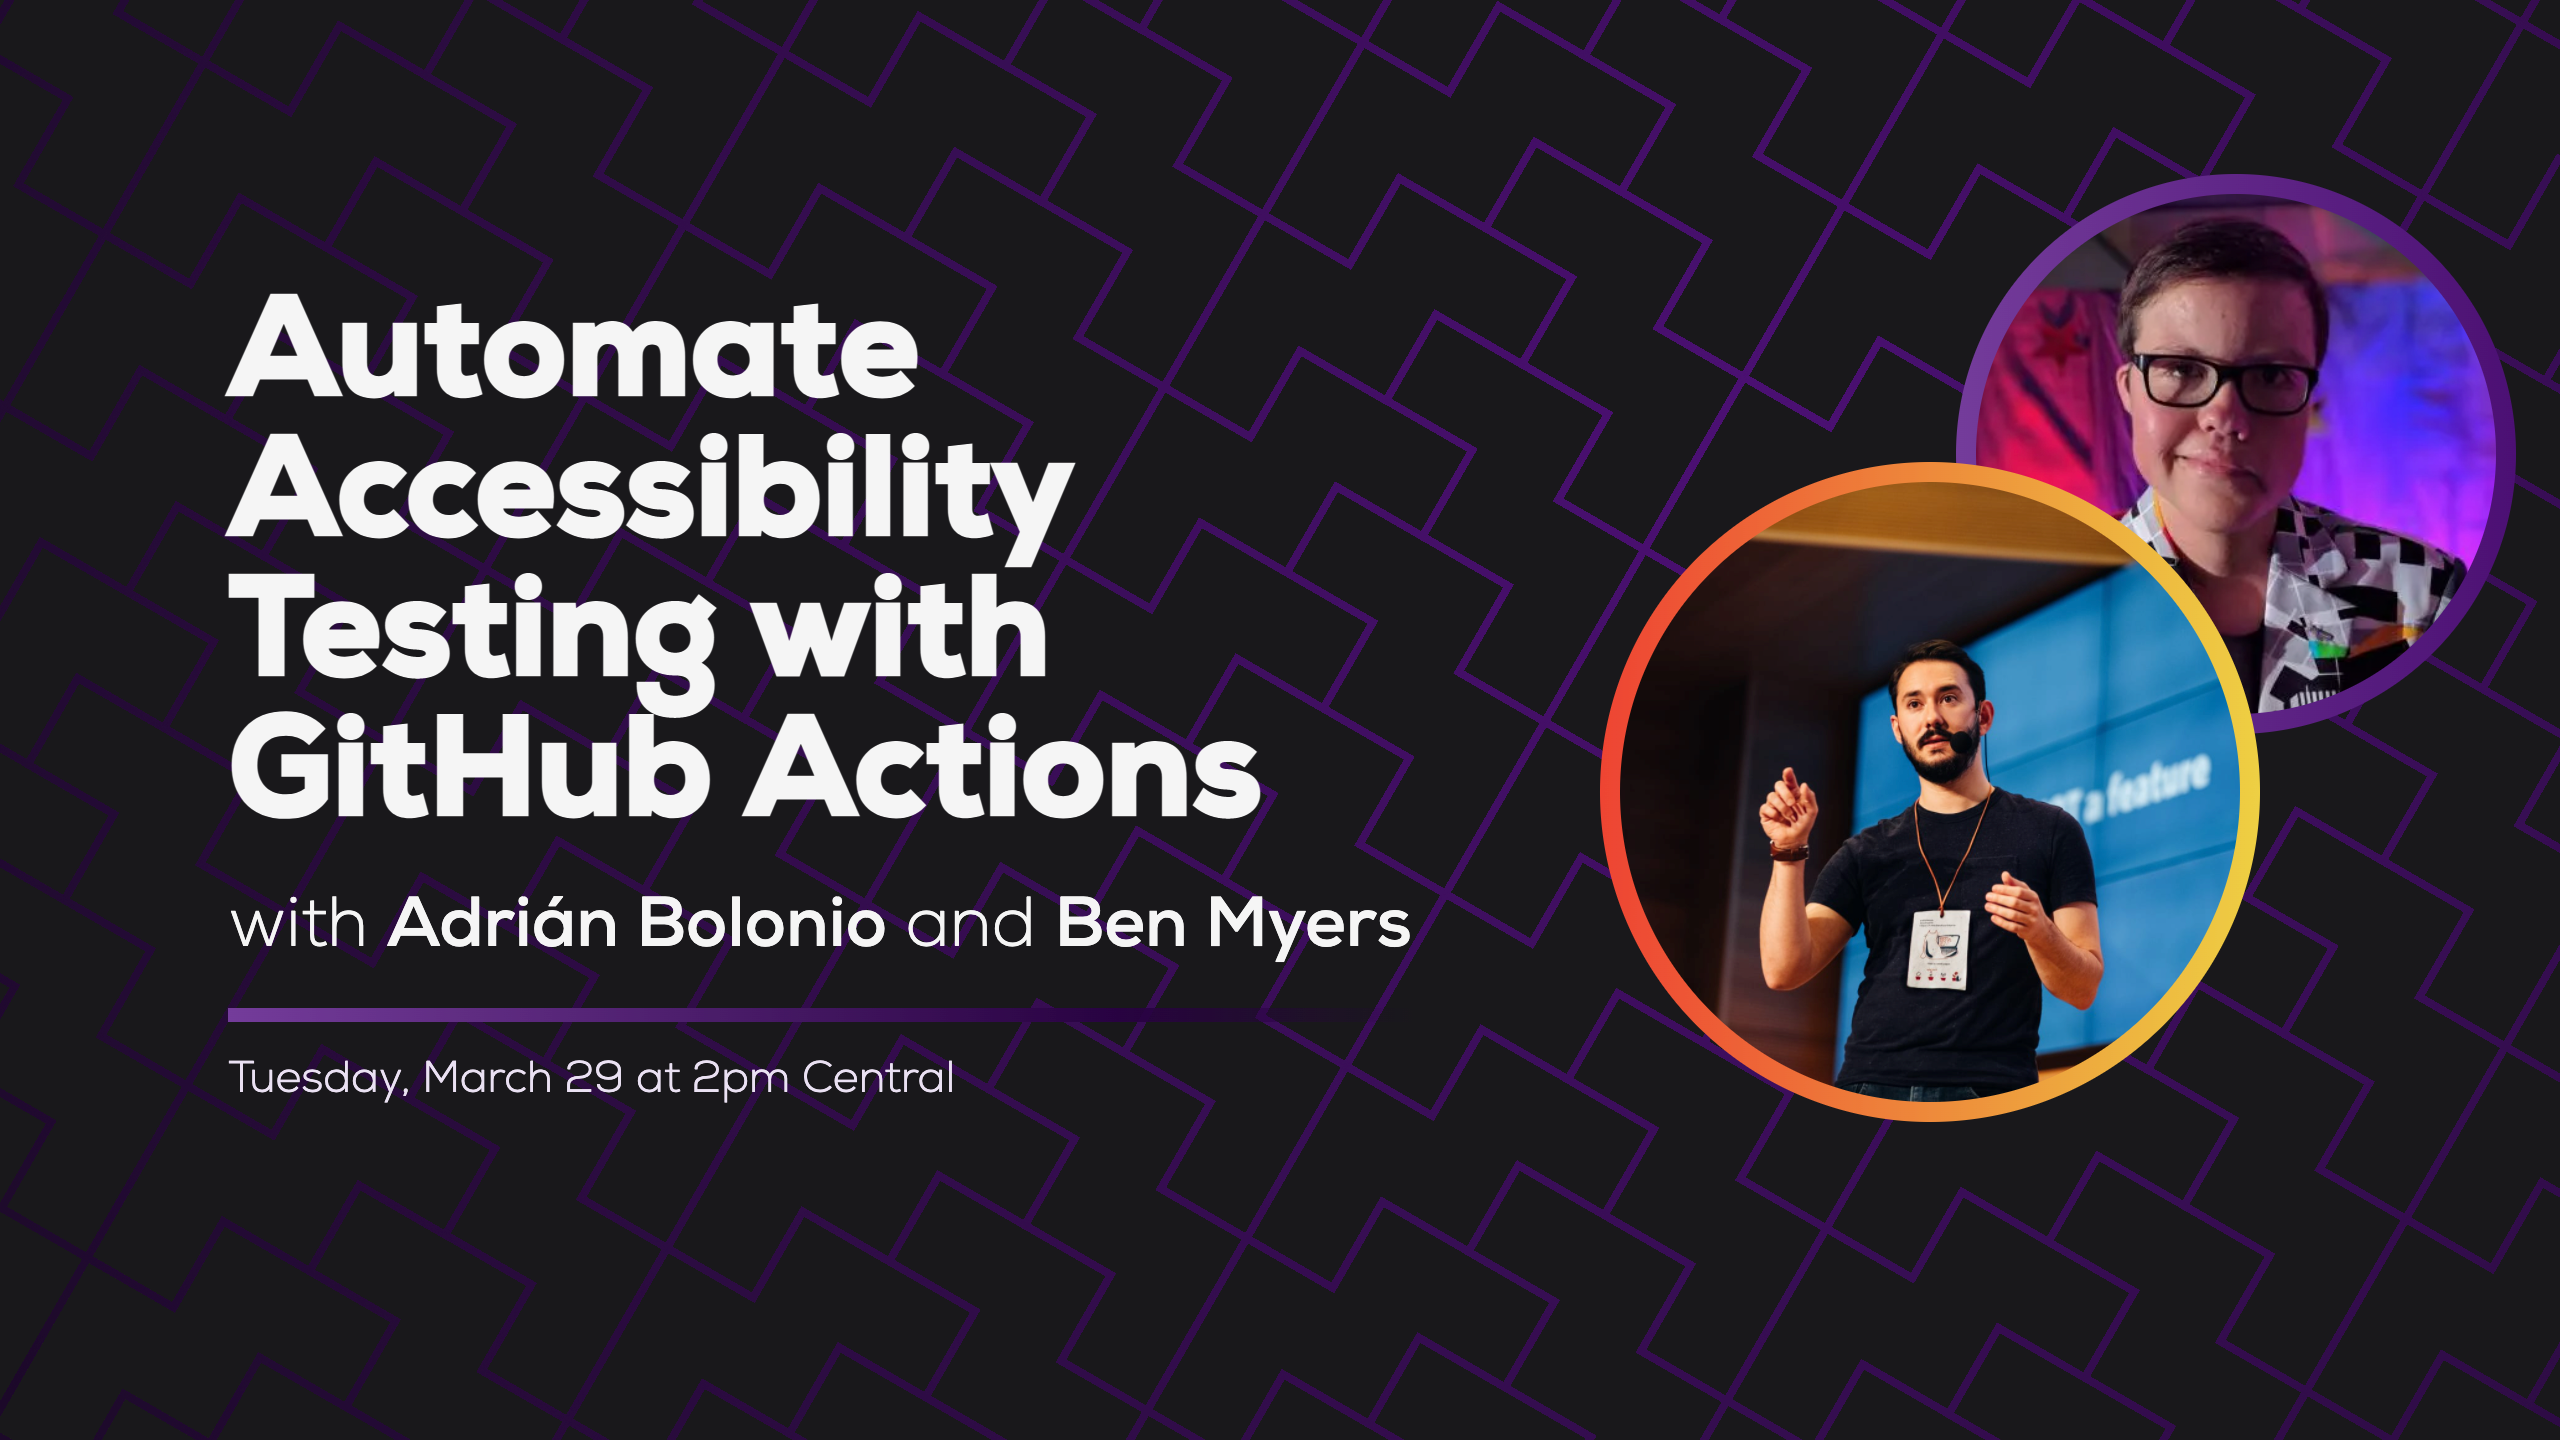
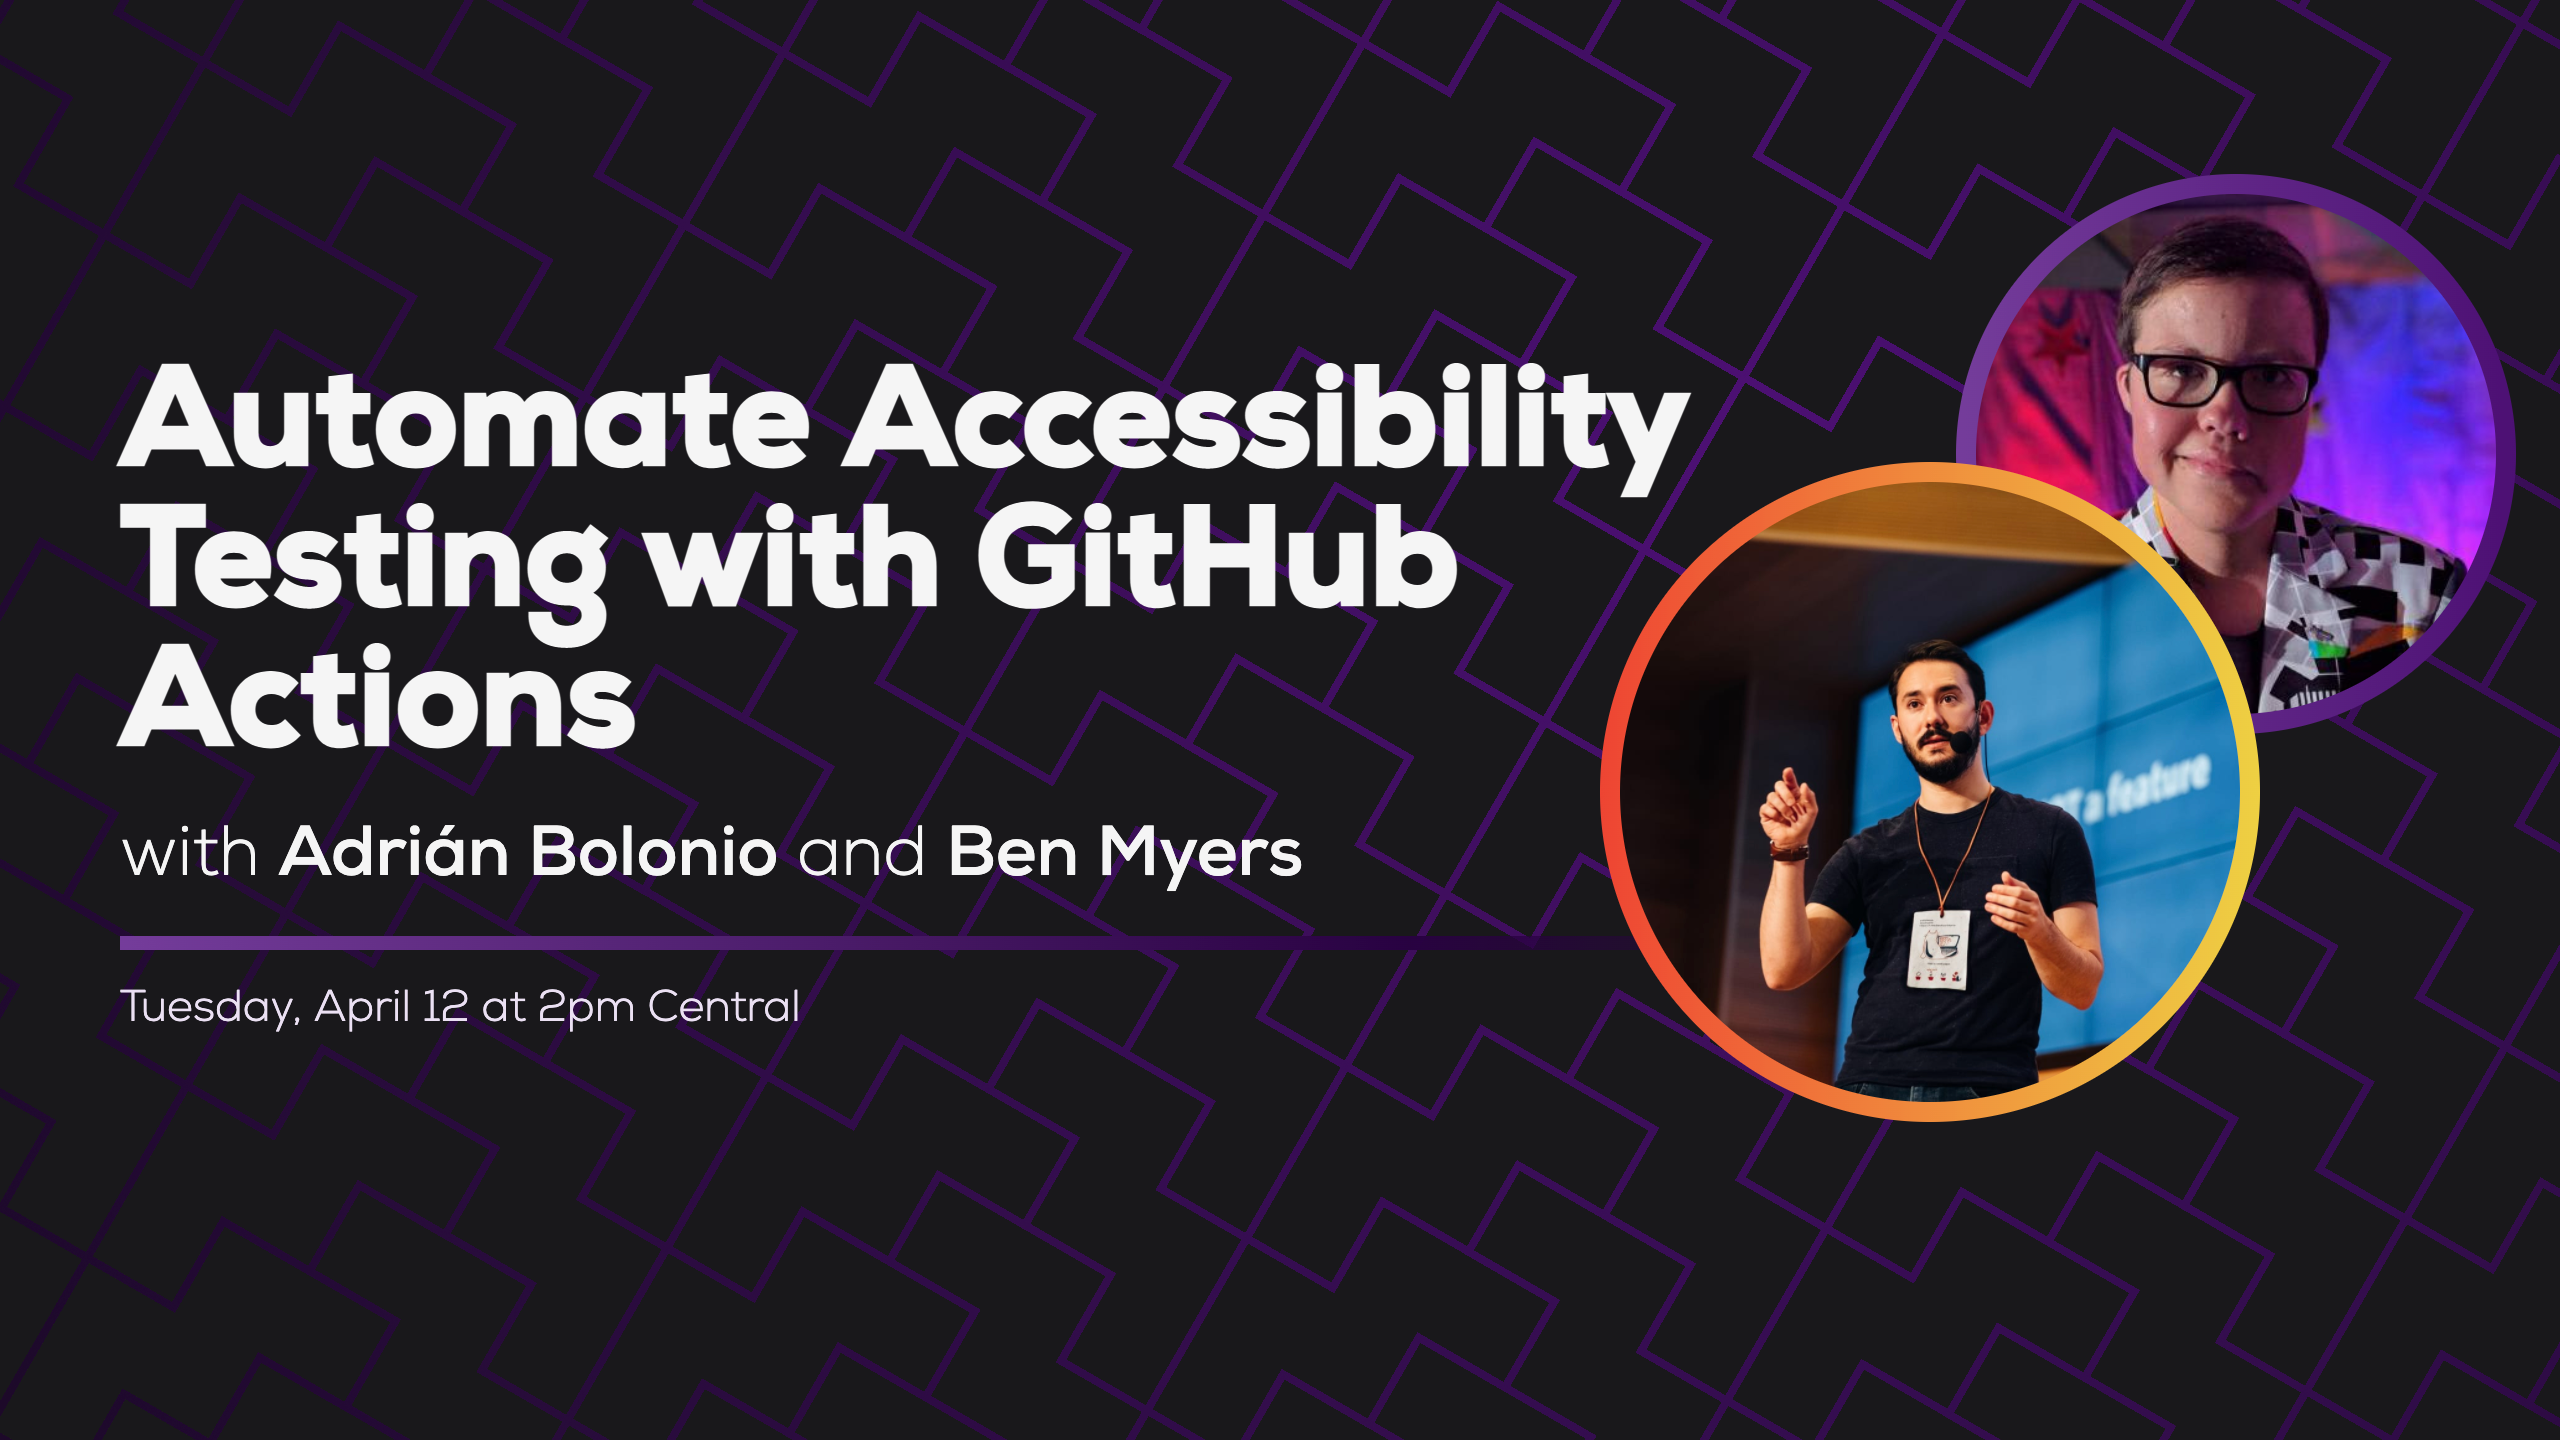
Reschedule Adrián

Changed region(s): [[0.0312, 0.1875, 0.6562, 0.7812]]

diff --git a/src/streams/2022-04-12-automate-accessibility-testing-with-github-actions.md b/src/streams/2022-04-12-automate-accessibility-testing-with-github-actions.md
@@ -7,8 +7,6 @@ hosts:
 tags:
   - Web Accessibility
   - Automated Accessibility Testing
-eleventyExcludeFromCollections: true
-permalink: false
 ---
 
 Automated accessibility testing is a powerful way to surface a bunch of accessibility defects throughout our app which, collectively, can have a critical impact on our user experience. Join us as [Adrián Bolonio](https://twitter.com/bolonio) shows us how we can introduce automated accessibility testing into our continuous integration/continuous deployment workflow with GitHub Actions!
